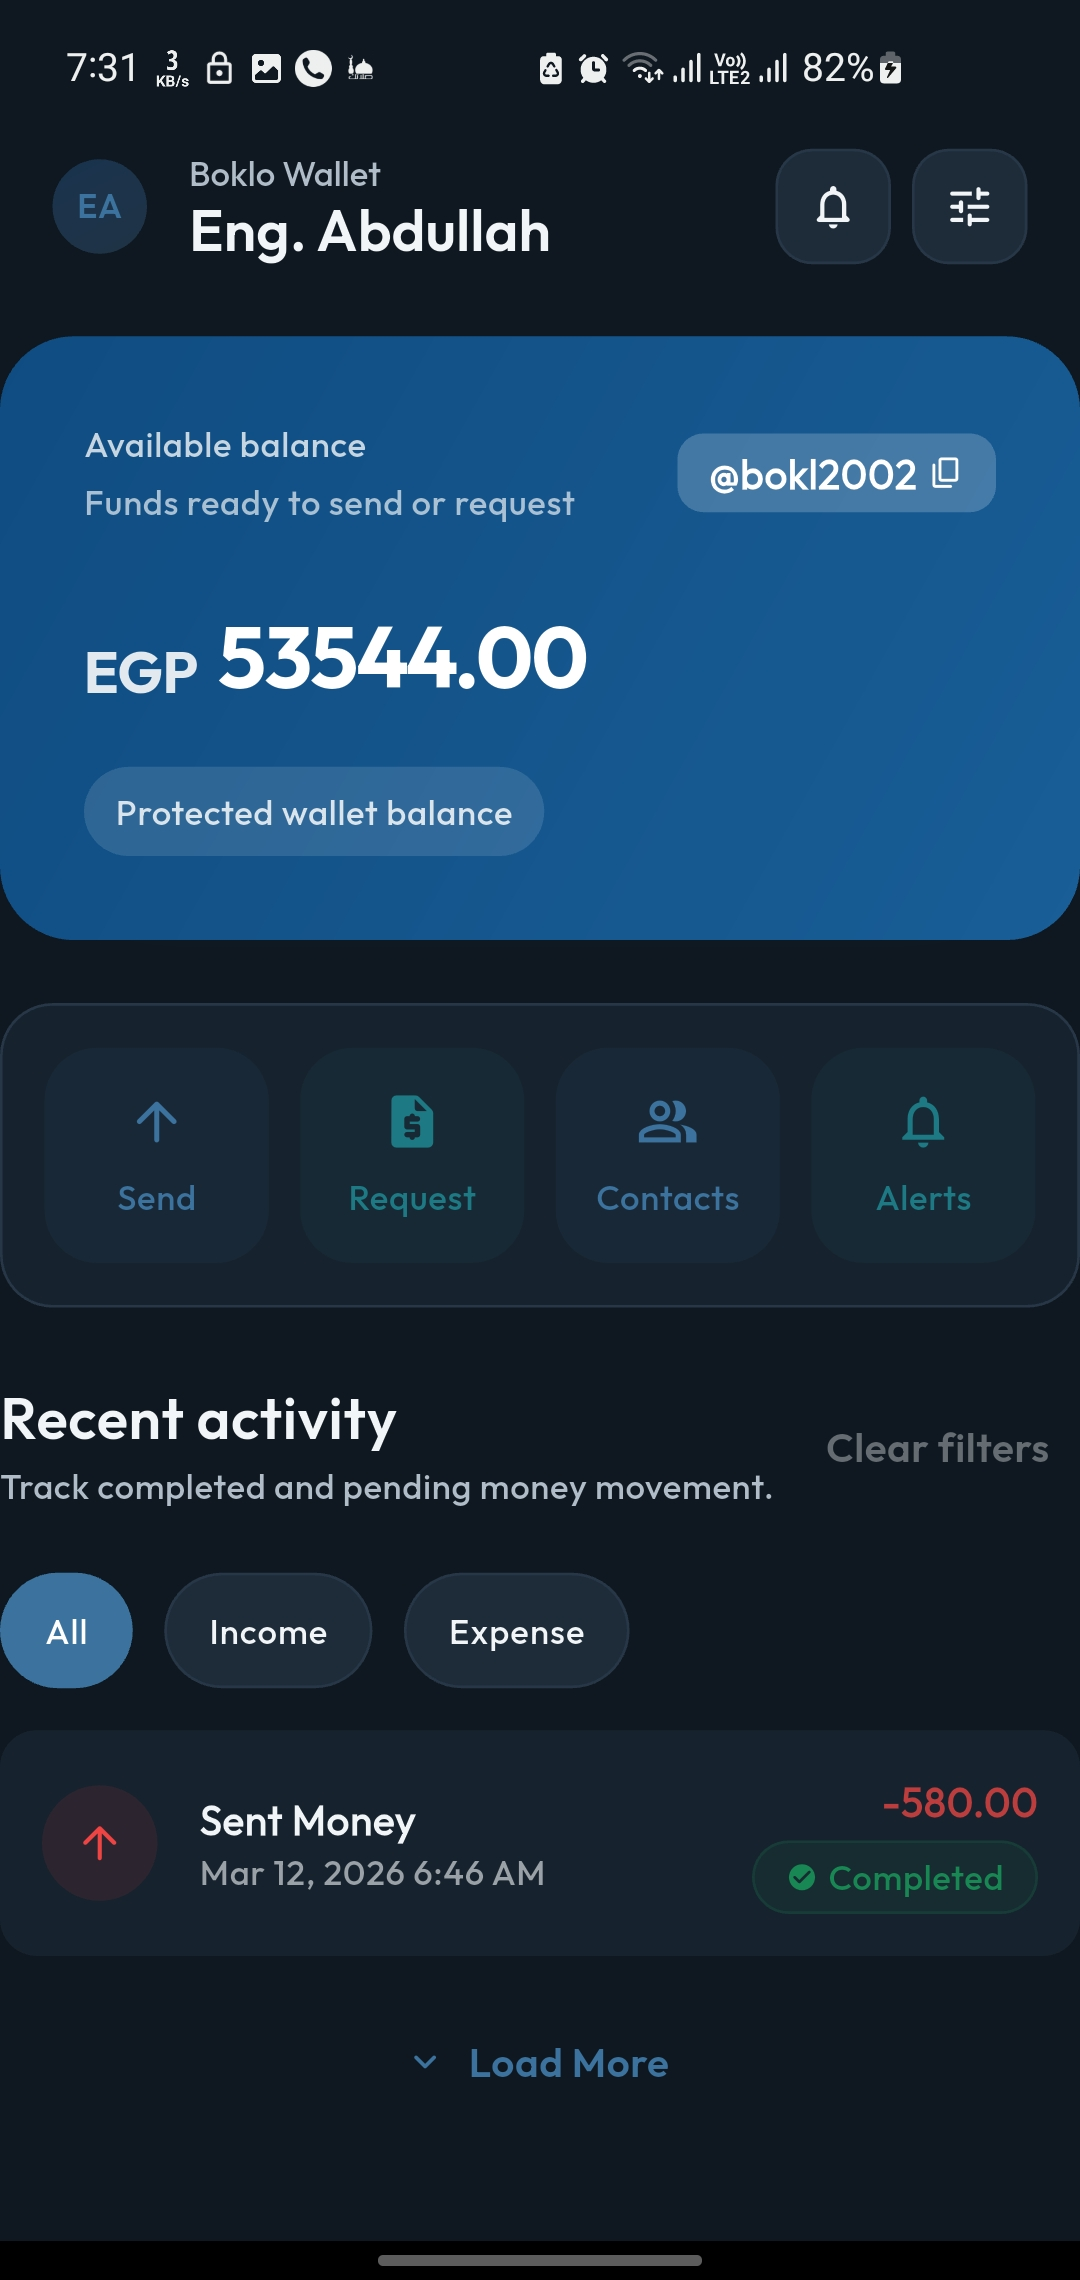
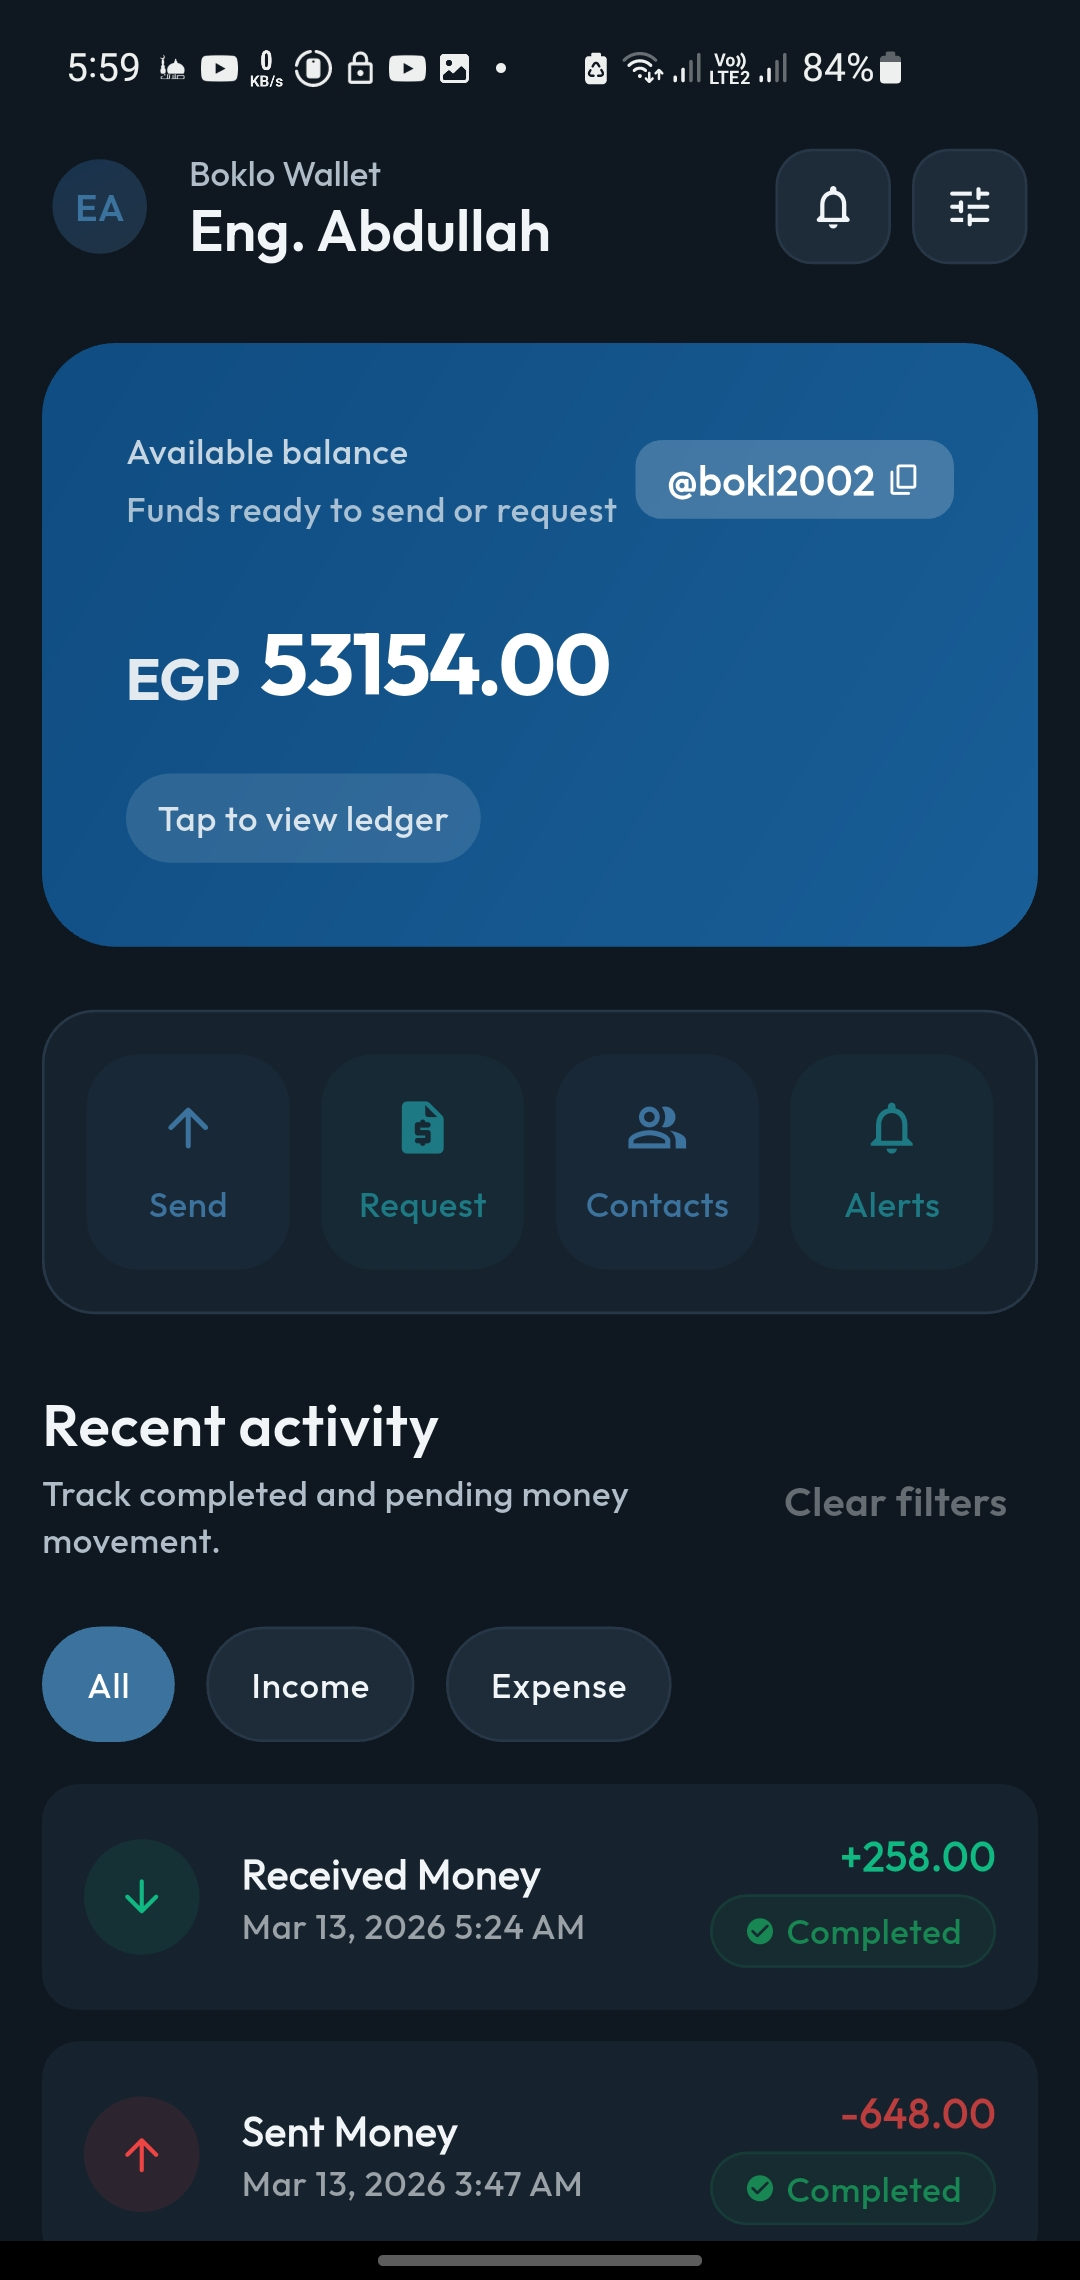
feat(wallet): add page padding, transaction spacing, and updated screenshot

diff --git a/lib/features/wallet/presentation/widgets/wallet_content.dart b/lib/features/wallet/presentation/widgets/wallet_content.dart
@@ -23,83 +23,84 @@ class WalletContent extends StatelessWidget {
 
   @override
   Widget build(BuildContext context) {
-    return CustomScrollView(
-      slivers: [
-        SliverToBoxAdapter(
-          child: Padding(
-            padding: const EdgeInsets.only(
-              top: AppDimens.md,
-              right: AppDimens.md,
-              left: AppDimens.md,
-            ),
-            child: Column(
-              crossAxisAlignment: CrossAxisAlignment.start,
-              children: [
-                TweenAnimationBuilder<double>(
-                  duration: const Duration(milliseconds: 380),
-                  tween: Tween(begin: 0.96, end: 1),
-                  curve: Curves.easeOut,
-                  builder: (context, value, child) {
-                    return Transform.scale(scale: value, child: child);
-                  },
-                  child: RepaintBoundary(
-                    child: BalanceCard(
-                      balance: data.wallet.balance,
-                      currency: data.wallet.currency,
-                      walletId: data.wallet.id,
-                      username: data.wallet.username,
-                      alias: data.wallet.alias,
+    return Padding(
+      padding: const EdgeInsets.symmetric(horizontal: AppDimens.md),
+      child: CustomScrollView(
+        slivers: [
+          SliverToBoxAdapter(
+            child: Padding(
+              padding: const EdgeInsets.only(top: AppDimens.md),
+              child: Column(
+                crossAxisAlignment: CrossAxisAlignment.start,
+                children: [
+                  TweenAnimationBuilder<double>(
+                    duration: const Duration(milliseconds: 380),
+                    tween: Tween(begin: 0.96, end: 1),
+                    curve: Curves.easeOut,
+                    builder: (context, value, child) {
+                      return Transform.scale(scale: value, child: child);
+                    },
+                    child: RepaintBoundary(
+                      child: BalanceCard(
+                        balance: data.wallet.balance,
+                        currency: data.wallet.currency,
+                        walletId: data.wallet.id,
+                        username: data.wallet.username,
+                        alias: data.wallet.alias,
+                      ),
                     ),
                   ),
-                ),
-                const SizedBox(height: AppDimens.lg),
-                QuickActionsRow(
-                  onSendTap: () {
-                    unawaited(getIt<NavigationService>().push('/transfer'));
-                  },
-                  onPaymentRequestsTap: () {
-                    unawaited(
-                        getIt<NavigationService>().push('/payment-requests'),);
-                  },
-                  onContactsTap: () {
-                    unawaited(getIt<NavigationService>().push('/contacts'));
-                  },
-                  onNotificationsTap: () {
-                    unawaited(getIt<NavigationService>()
-                        .push('/notification-settings'),);
-                  },
-                ),
-                const SizedBox(height: AppDimens.sectionGap),
-                AppSectionHeader(
-                  title: 'Recent activity',
-                  subtitle: 'Track completed and pending money movement.',
-                  trailing: TextButton(
-                    onPressed:
-                        data.filterType != null || data.filterStatus != null
-                            ? () => context.read<WalletCubit>().clearFilters()
-                            : null,
-                    child: const Text('Clear filters'),
+                  const SizedBox(height: AppDimens.lg),
+                  QuickActionsRow(
+                    onSendTap: () {
+                      unawaited(getIt<NavigationService>().push('/transfer'));
+                    },
+                    onPaymentRequestsTap: () {
+                      unawaited(
+                        getIt<NavigationService>().push('/payment-requests'),
+                      );
+                    },
+                    onContactsTap: () {
+                      unawaited(getIt<NavigationService>().push('/contacts'));
+                    },
+                    onNotificationsTap: () {
+                      unawaited(
+                        getIt<NavigationService>().push('/notification-settings'),
+                      );
+                    },
                   ),
-                ),
-                const SizedBox(height: AppDimens.sm),
-                TransactionFilters(data: data),
-                const SizedBox(height: AppDimens.md),
-              ],
+                  const SizedBox(height: AppDimens.sectionGap),
+                  AppSectionHeader(
+                    title: 'Recent activity',
+                    subtitle: 'Track completed and pending money movement.',
+                    trailing: TextButton(
+                      onPressed:
+                          data.filterType != null || data.filterStatus != null
+                              ? () => context.read<WalletCubit>().clearFilters()
+                              : null,
+                      child: const Text('Clear filters'),
+                    ),
+                  ),
+                  const SizedBox(height: AppDimens.sm),
+                  TransactionFilters(data: data),
+                  const SizedBox(height: AppDimens.md),
+                ],
+              ),
             ),
           ),
-        ),
-        TransactionList(
-          transactions: data.transactions,
-          hasMore: data.hasMore,
-          isLoadingMore: data.isLoadingMore,
-          onLoadMore: () async {
-            await context.read<WalletCubit>().loadMoreTransactions();
-          },
-        ),
-        const SliverPadding(
-          padding: EdgeInsets.only(bottom: AppDimens.xl),
-        ),
-      ],
+          TransactionList(
+            transactions: data.transactions,
+            hasMore: data.hasMore,
+            isLoadingMore: data.isLoadingMore,
+            onLoadMore: () async {
+              await context.read<WalletCubit>().loadMoreTransactions();
+            },
+          ),
+          const SliverPadding(
+            padding: EdgeInsets.only(bottom: AppDimens.xl),
+          ),
+        ],
+      ),
     );
   }
 }

diff --git a/lib/features/wallet/presentation/widgets/transaction_list.dart b/lib/features/wallet/presentation/widgets/transaction_list.dart
@@ -75,13 +75,18 @@ class TransactionList extends StatelessWidget {
             uiStatus = TransactionStatus.failed;
         }
 
-        return RepaintBoundary(
-          child: TransactionTile(
-            title: isCredit ? 'Received Money' : 'Sent Money',
-            amount: tx.amount.toStringAsFixed(2),
-            date: _transactionDateFormatter.format(tx.timestamp),
-            status: uiStatus,
-            isCredit: isCredit,
+        return Padding(
+          padding: EdgeInsets.only(
+            bottom: index < transactions.length - 1 ? AppDimens.sm : 0,
+          ),
+          child: RepaintBoundary(
+            child: TransactionTile(
+              title: isCredit ? 'Received Money' : 'Sent Money',
+              amount: tx.amount.toStringAsFixed(2),
+              date: _transactionDateFormatter.format(tx.timestamp),
+              status: uiStatus,
+              isCredit: isCredit,
+            ),
           ),
         );
       },
